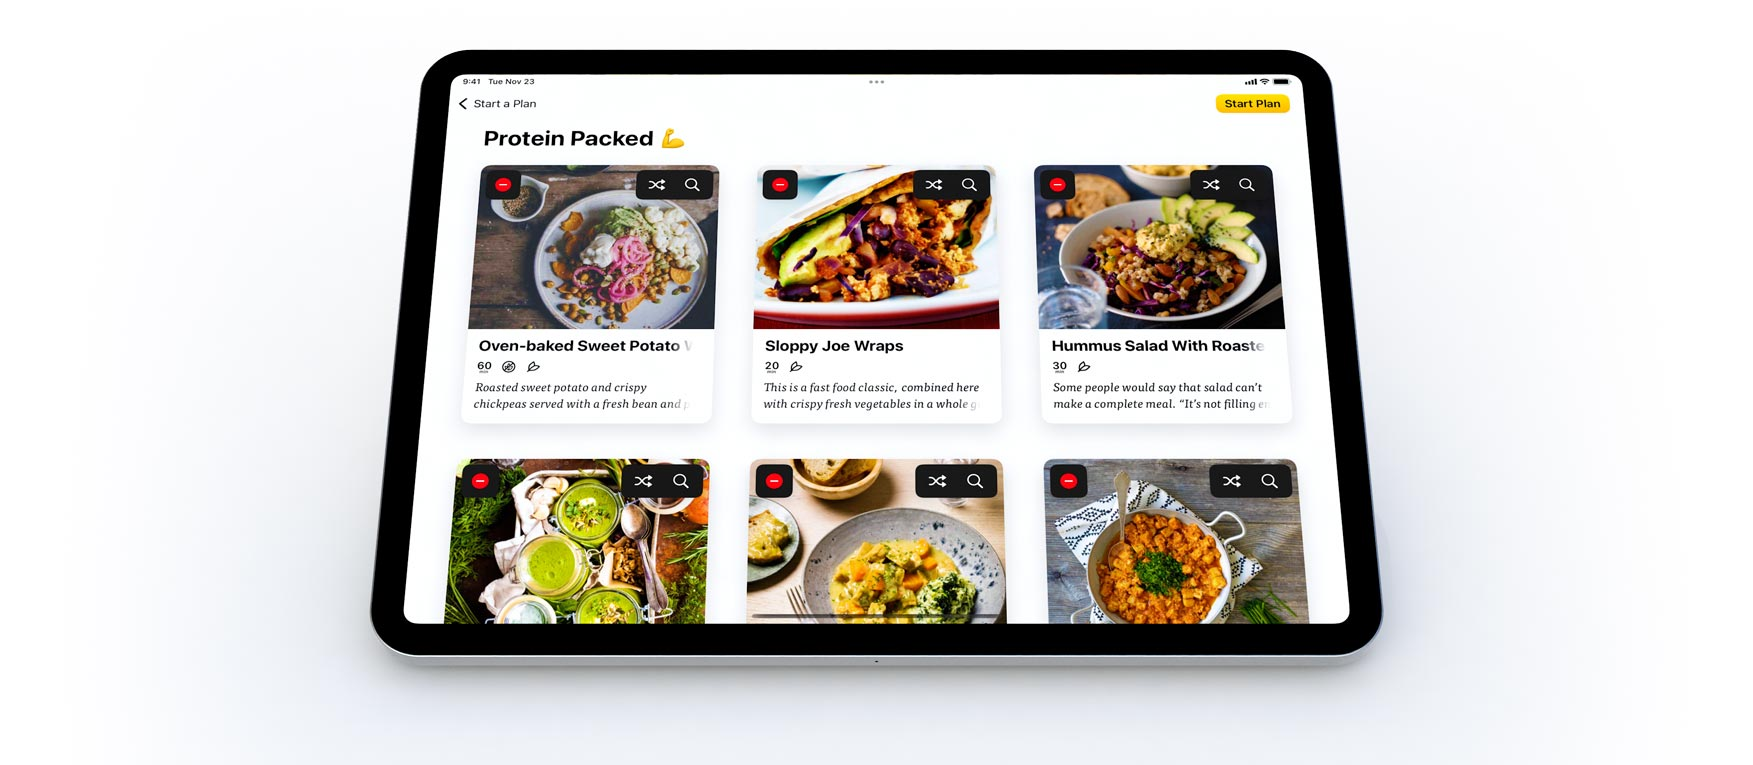
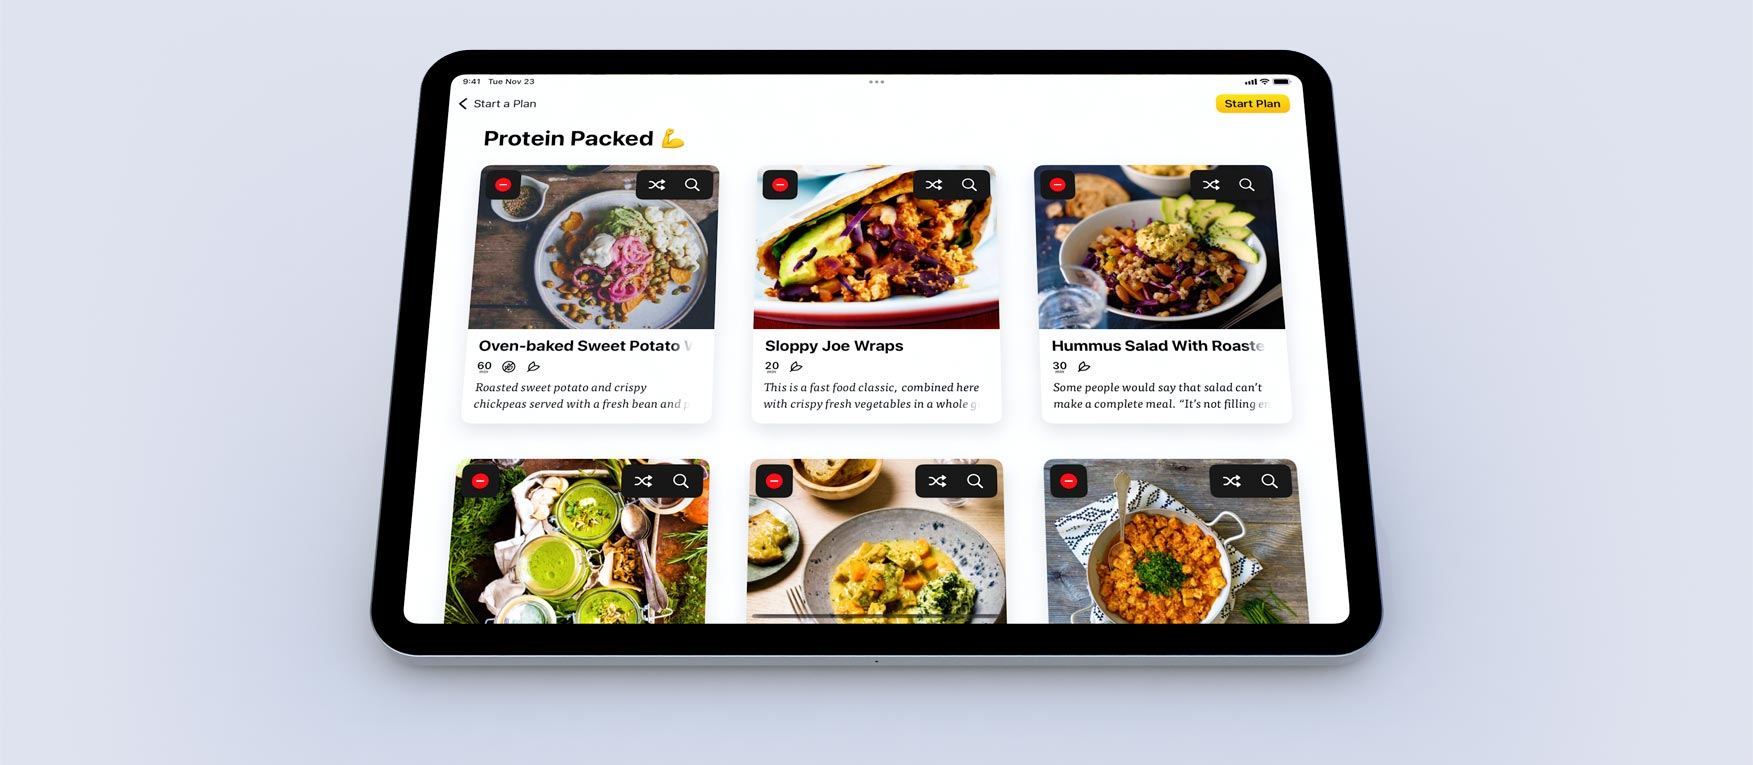
Redesign concept

diff --git a/index.html b/index.html
@@ -29,9 +29,6 @@
   <body>
     
   <div class="site-nav">
-    <div class="site-nav-left">
-      <a href="index.html" class="plantry-logo"><img src="gfx/plantry.svg" alt="Plantry app icon"></a>
-    </div>
     <div class="site-nav-right">
       <a href="https://www.dropbox.com/sh/tnvagky8ekcc40p/AACJRcpoeVqb1C2SWhK7B3XYa?dl=0" class="site-nav-regular">Press kit</a>
       <a href="se/index.html" class="site-nav-regular">🇸🇪 SE</a>
@@ -40,11 +37,16 @@
   
   <header>
     <div class="hero">
+      
+    
+    
+      <img src="gfx/plantry.svg" alt="Plantry app icon" width="375" height="93">
+      
       <img src="gfx/plantry.svg" alt="Plantry app icon" class="plantry-logo-mobile" width="300" height="121,95">
-      <h2 class="rellax" data-rellax-speed="-4">Planet Friendly Cooking</h2>       
-        <div class="hero-iphone rellax" data-rellax-speed="-5">
+    
+        <div class="hero-iphone">
 
-          <video class="video" autoplay muted loop playsinline width="265" height="696">
+          <video class="video" autoplay muted loop playsinline width="265" height="696">      
 <!--      
           <source src="video/web-EN-small.mp4" width="265" height="696" type="video/mp4" media="(max-width:480px)">
   				<source src="video/web-EN-medium.mp4" width="265" height="696" type="video/mp4"/>
@@ -52,51 +54,26 @@
           <source src="https://maxrudberg.com/plantry/web-EN-small.mp4" width="265" height="696" type="video/mp4" media="(max-width:480px)">
   				<source src="https://maxrudberg.com/plantry/web-EN-medium.mp4" width="265" height="696" type="video/mp4"/>
   				</video>
-		      <div class="app-store-download-top rellax" data-rellax-speed="0"><a href="https://apps.apple.com/app/apple-store/id1109976916?pt=21520800&ct=web&mt=8#?platform=iphone"><img src="gfx/download.svg" alt="App Store Download" width="194px" height="112px"></a></div> 
-        </div>
-      <div class="app-store-download-top-mobile rellax" data-rellax-speed="-0.3"><a href="https://apps.apple.com/app/apple-store/id1109976916?pt=21520800&ct=web&mt=8#?platform=iphone"><img src="gfx/download.svg" alt="App Store Download" width="194px" height="112px"></a></div> 
+ 
 
-      <img class="bend invertInDarkMode rellax" data-rellax-speed="0" src="gfx/bend-filler.svg">
+		      <div class="app-store-download-top"><a href="https://apps.apple.com/app/apple-store/id1109976916?pt=21520800&ct=web&mt=8#?platform=iphone"><img src="gfx/download.svg" alt="App Store Download" width="194px" height="112px"></a></div> 
+        </div>
+      <div class="app-store-download-top-mobile"><a href="https://apps.apple.com/app/apple-store/id1109976916?pt=21520800&ct=web&mt=8#?platform=iphone"><img src="gfx/download.svg" alt="App Store Download" width="194px" height="112px"></a></div> 
+      
+      
+            <picture>
+         <img class="veggies" src="gfx/veggies.jpg" alt="Veggies" srcset="gfx/veggies@2x.jpg 2x"> 		
+      </picture>
+      <h1>Plan. Shop. Cook.</h1>   
     </div>
   </header>
 
   <section>
-    <h2 class="header-padding">Plan&nbspYour&nbspMeals and&nbspSave&nbspThe&nbspPlanet</h2>
     <div class="cards">
-      <div class="card">
-          <img src="gfx/icon-plantbased.png" srcset="gfx/icon-plantbased@2x.png 2x, gfx/icon-plantbased@3x.png 3x" width="60" height="60" alt="Plant-Based Recipes">
-          <h3>Plant-Based Recipes</h3>
-          <p>Eating vegetarian and vegan meals helps reduce your climate impact.</p>
-      </div>
-      <div class="card">
-          <img src="gfx/icon-better.png" srcset="gfx/icon-better@2x.png 2x, gfx/icon-better@3x.png 3x" width="60" height="60" alt="Planned Is Better">
-          <h3>Planned Is Better</h3>
-          <p>Save time and money and make healthier eating choices.</p>
-      </div>
-      <div class="card">
-          <img src="gfx/icon-foodwaste.png" srcset="gfx/icon-foodwaste@2x.png 2x, gfx/icon-foodwaste@3x.png 3x" width="60" height="60" alt="Food Waste">
-          <h3>Reduce Food Waste</h3>
-          <p>Buy only what you need and use it while it’s still fresh.</p>
-      </div>
-    </div>
-    <div class="image-crop"
-      <picture>
-        <img class="veggies invertInDarkMode" src="gfx/veggies.jpg" alt="Veggies" srcset="gfx/veggies@2x.jpg 2x">
-      </picture>
-    </div>
-  </section>        
-
-<div class="divider">
-</div>
-    
-  <section>
-      <h2>It's Easy With Plantry</h2>
-
-      <div class="cards">       
         <div class="card">
             <img src="gfx/icon-plan.png" srcset="gfx/icon-plan@2x.png 2x, gfx/icon-plan@3x.png 3x" width="60" height="60" alt="Planned Is Better">
-            <h3>Easy Meal Planning</h3>
-            <p>Pick a plan and customize it, or make one from scratch. Planning your cooking has never been easier.</p>
+            <h3>Planned Is Better</h3>
+            <p>Customize a plan, or make one from scratch. Save time and money and make healthier eating choices.</p>
         </div>
         
         <div class="card">
@@ -107,16 +84,19 @@
           
         <div class="card">
             <img src="gfx/icon-recipes.png" srcset="gfx/icon-recipes@2x.png 2x, gfx/icon-recipes@3x.png 3x" width="60" height="60" alt="Find New Favorites">
-            <h3>Find New Favorites</h3>
+            <h3>Cook New Favorites</h3>
             <p>In Plantry you'll find more than 1000 tasty recipes brought to you by our amazing chefs.</p>
         </div>
-        
-        <div class="card">
-            <img src="gfx/icon-cuttingedge.png" srcset="gfx/icon-cuttingedge@2x.png 2x, gfx/icon-cuttingedge@3x.png 3x" width="60" height="60" alt="Widgets & Shortcuts">
-            <h3>Widgets & Shortcuts</h3>
-            <p>Keep your planned meals on your Home Screen, or ask Siri 'What's for Dinner?' and she'll let you know!</p>
-        </div>
-        
+    </div>
+    <div class="spacer">
+  </section>   
+
+    
+  <section>
+      <h2>Powerful Features. Planet Friendly.</h2>
+
+      <div class="cards">       
+
         <div class="card">
             <img src="gfx/icon-nutrition.png" srcset="gfx/icon-nutrition@2x.png 2x, gfx/icon-nutrition@3x.png 3x" width="60" height="60" alt="Nutrition Facts">
             <h3>Nutrition Facts</h3>
@@ -124,9 +104,33 @@
         </div>
         
         <div class="card">
+            <img src="gfx/icon-cuttingedge.png" srcset="gfx/icon-cuttingedge@2x.png 2x, gfx/icon-cuttingedge@3x.png 3x" width="60" height="60" alt="Widgets & Shortcuts">
+            <h3>Widgets</h3>
+            <p>Keep your planned meals on your Home Screen. One tap and you're ready to cook.</p>
+        </div>
+        
+        <div class="card">
+            <img src="gfx/icon-better.png" srcset="gfx/icon-better@2x.png 2x, gfx/icon-better@3x.png 3x" width="60" height="60" alt="Food Waste">
+            <h3>Use Your Voice</h3>
+            <p>Ask Siri 'What's for Dinner?' and she'll let you know!</p>
+        </div>
+        
+        <div class="card">
             <img src="gfx/icon-timer.png" srcset="gfx/icon-timer@2x.png 2x, gfx/icon-timer@3x.png 3x" width="60" height="60" alt="Multiple Timers">
             <h3>Multiple Timers</h3>
             <p>Start as many timers as needed directly in a recipe. Just tap a timer link or set a custom one.</p>
+        </div>
+        
+        <div class="card">
+            <img src="gfx/icon-foodwaste.png" srcset="gfx/icon-foodwaste@2x.png 2x, gfx/icon-foodwaste@3x.png 3x" width="60" height="60" alt="Food Waste">
+            <h3>Reduce Food Waste</h3>
+            <p>Buy only what you need and use it while it’s still fresh.</p>
+        </div>
+        
+        <div class="card">
+            <img src="gfx/icon-plantbased.png" srcset="gfx/icon-plantbased@2x.png 2x, gfx/icon-plantbased@3x.png 3x" width="60" height="60" alt="Plant-Based Recipes">
+            <h3>Plant-Based Recipes</h3>
+            <p>Eating vegetarian and vegan meals helps reduce your climate impact.</p>
         </div>
       </div>
     <div class="spacer">
@@ -215,19 +219,19 @@
 
       <div class="review-grid">
       <div class="review">
-            <img src="gfx/fivestars.svg" alt="Five stars">
+            <img src="gfx/fivestars.svg" alt="Five stars" class="invertInDarkMode">
             <p><b>Awesome food, planning, life made easy.</b> Been using the Plantry app for more than a month and will continue, the week planning of menus and also shoppinglist that goes along with it is so fab and easy to use. The recipes are really good and easy to follow and the food is awesome.</p>
             <h2>— Zoire</h2>
       </div>
         
         <div class="review">
-            <img src="gfx/fivestars.svg" alt="Five stars">
+            <img src="gfx/fivestars.svg" alt="Five stars" class="invertInDarkMode">
             <p><b>Healthy made Convenient!</b> I love using this app! It's so hard to find a way to incorporate healthy eating into a busy schedule because I never have time to look up recipes. This app is the solution! […] I love getting off work to look forward to making a new and yummy, healthy dinner!</p>
             <h2>— Little jayy</h2>
         </div>
         
         <div class="review">
-            <img src="gfx/fivestars.svg" alt="Five stars">
+            <img src="gfx/fivestars.svg" alt="Five stars" class="invertInDarkMode">
             <p><b>Great app, awesome food.</b> I've made 6 of the meals so far and they're super flavorful and delicious. The app itself is gorgeous and well laid out.</p>
             <h2>— Mo_Bo</h2>
         </div>
@@ -250,7 +254,13 @@
 
     
     <footer>  
-      <img class="bend-top invertInDarkMode" src="gfx/bend-top.svg" width="100%" height="auto">      
+        <svg class="bend" width="1440px" height="51px" viewBox="0 0 1440 51" version="1.1" xmlns="http://www.w3.org/2000/svg" xmlns:xlink="http://www.w3.org/1999/xlink">
+            <g id="Page-1" stroke="none" stroke-width="1" fill="none" fill-rule="evenodd">
+                <g id="Artboard" transform="translate(0.000000, -2.000000)" fill="#dee3f0">
+                    <path d="M1440,4 C1200.33169,36.6666667 960.331692,53 720,53 C479.668308,53 239.668308,36.6666667 0,4 L0,2 L1440,2 L1440,4 Z" id="Combined-Shape"></path>
+                </g>
+            </g>
+        </svg>    
       <img src="gfx/bowl-spin.gif" width="216" height="158" alt="Plantry">
       
       <div class="social-footer">

diff --git a/styles.css b/styles.css
@@ -12,10 +12,10 @@ html {
 
 /* Site navigation */
 
-.site-nav	A:link {text-decoration: none; color: white;}
-.site-nav	A:visited {text-decoration: none; color: white;}
-.site-nav	A:active {text-decoration: none; color: white;}
-.site-nav	A:hover {text-decoration: none; color: white;}
+.site-nav	A:link {text-decoration: none; color: black;}
+.site-nav	A:visited {text-decoration: none; color: black;}
+.site-nav	A:active {text-decoration: none; color: black;}
+.site-nav	A:hover {text-decoration: none; color: black;}
 .site-nav	a:focus {outline: 0;}
 
 .site-nav{
@@ -26,13 +26,6 @@ html {
 
 .site-nav a:active{
   opacity: 0.7;
-}
-
-.site-nav-left{
-  float: left;
-	display: flex;
-	align-items: center;
-	height: 100px;
 }
 
 .site-nav-right{
@@ -46,20 +39,18 @@ html {
 }
   
 .site-nav-regular{
-  background-color: rgba(120, 120, 128, 0.3);
+  background-color: rgba(255, 255, 255, 1);
   border-radius: 100px;
-  color: white;
+  color: black;
   opacity: 1.0;
   border-radius: 100px;
   padding: 7px 16px 8px 16px;
   margin: 0 4px 0 4px;
   transition: opacity 0.3s;
-  backdrop-filter:blur(10px);
-  -webkit-backdrop-filter:blur(10px);
 }
 
 .site-nav-regular:hover {
-  background-color: rgba(120, 120, 128, 0.6);
+  background-color: rgba(255, 255, 255, 0.6);
   color: black;
   border-radius: 100px;
   transition: opacity 0.15s;
@@ -181,7 +172,7 @@ html {
 body {
   margin: 0;
   padding: 0;
-  background-color: rgb(255, 255, 255);
+  background-color: color(display-p3 0.875 0.89 0.937 / 1)
 }
 
 section {
@@ -208,15 +199,23 @@ header {
 }
 
 .hero {
-  background-image: url(gfx/earth-bg.jpg);
+  background: linear-gradient(to bottom, color(display-p3 1 0.956 0.102 / 1) 0%, color(display-p3 1 0.784 0 / 1) 50%, color(display-p3 1 0.855 0.33 / 1) 75%, color(display-p3 0.875 0.89 0.937 / 1) 100%);
+
+/*
+  background-image: url(gfx/veggies@2x.jpg);
   background-position: center top;
   background-size: cover;
+  background-blend-mode: multiply;
+*/
+
   color: rgb(0, 0, 0);
   padding: 160px 0 0 0;
   margin: 0 0 60px 0;
   text-align: center;
+/*
   background-attachment: fixed;
   overflow: hidden;
+*/
 }
 
 .hero-iphone {
@@ -227,6 +226,7 @@ header {
   background-size: 309px 744px;
 	background-repeat: no-repeat;
 	background-position: center center;
+	z-index: 1;
 	}
 
 .video {
@@ -234,6 +234,7 @@ header {
   margin-top: 22px;
   margin-right: 20.8px;
   border-radius: 280px 40px 40px 280px/55px 40px 40px 55px;
+	z-index: 1;
   }
 
 .app-store-download-top { 
@@ -259,19 +260,23 @@ header {
 }
 
 .bend {
-  width: 100%;
-  padding: 0;
-  margin-bottom: -16px;
-  background-image: url(gfx/bend.svg);
-  background-size: contain;
-  background-position: center top;
-  width: 100%;
+    bottom: -1px;
+    height: auto;
+    width: 102vw;
+    left: -1vw;
+    margin-top: -1px;
+    margin-bottom: 16px;
 }
 
 .veggies {
-  margin-bottom: 60px;
+  margin-left: -500px;
+  margin-top: -600px;
   width: 100%;
   max-width: 887px;
+  mix-blend-mode: multiply;
+	position: absolute;
+	display: inline-block;
+	z-index: -1;
 }
 
 .ipad-hero {
@@ -529,6 +534,10 @@ footer img {
 
 
 /* Typography */
+
+h1 {
+  font-size: 64px;
+}
 
 h2, p {
   margin: 0;
@@ -1020,11 +1029,15 @@ p {
 
 /* Text and background color for dark mode */
 @media (prefers-color-scheme: dark) {
+  .hero {
+      background: linear-gradient(to bottom, color(display-p3 1 0.956 0.102 / 1) 0%, color(display-p3 1 0.784 0 / 1) 50%, color(display-p3 0 0 0 / 1) 100%);
+  }
+  
   body, .divider {
     background-color: rgb(0, 0, 0);
   }
   
-  section p, h2, h3, h4 {
+  section p, h1, h2, h3, h4 {
     color: #fff;
   }
 
